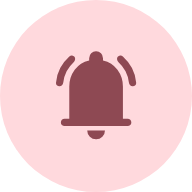
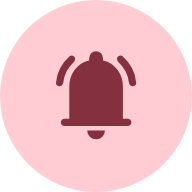
Íconos con los colores nuevos del estándar (rosa #FFCCD4, vino #84303F)
Claude-Session: https://claude.ai/code/session_01RxuB9vs623EuzMLeYyngVi

Changed region(s): [[0.2812, 0.25, 0.7188, 0.7188]]

diff --git a/sw.js b/sw.js
@@ -10,7 +10,7 @@
  * VERSION para que los celulares renueven la copia.
  *****************************************************************/
 
-const VERSION = 'alarmas-gases-v9';
+const VERSION = 'alarmas-gases-v10';
 
 const ARCHIVOS = [
   './',
